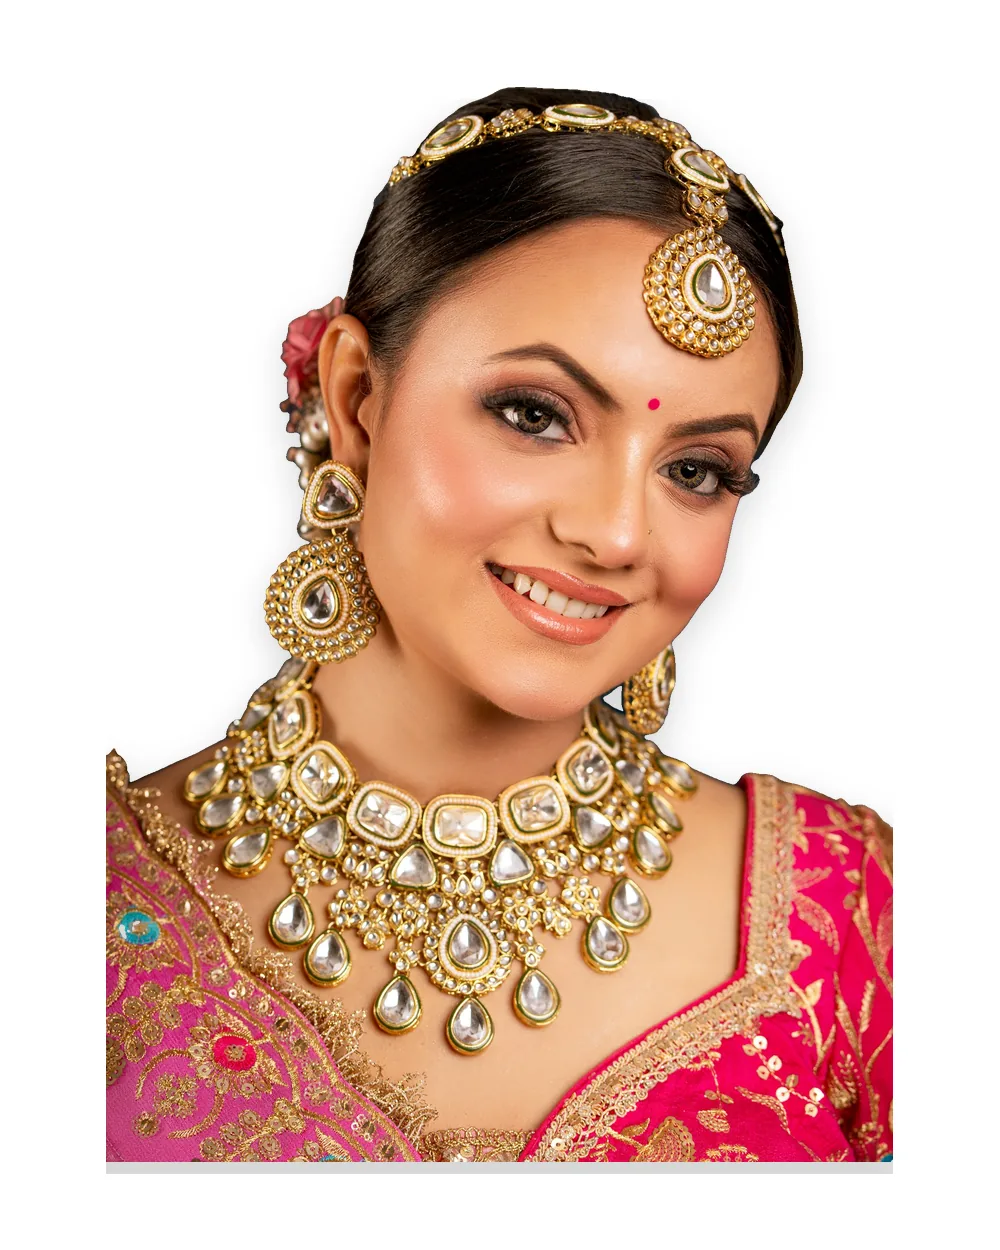
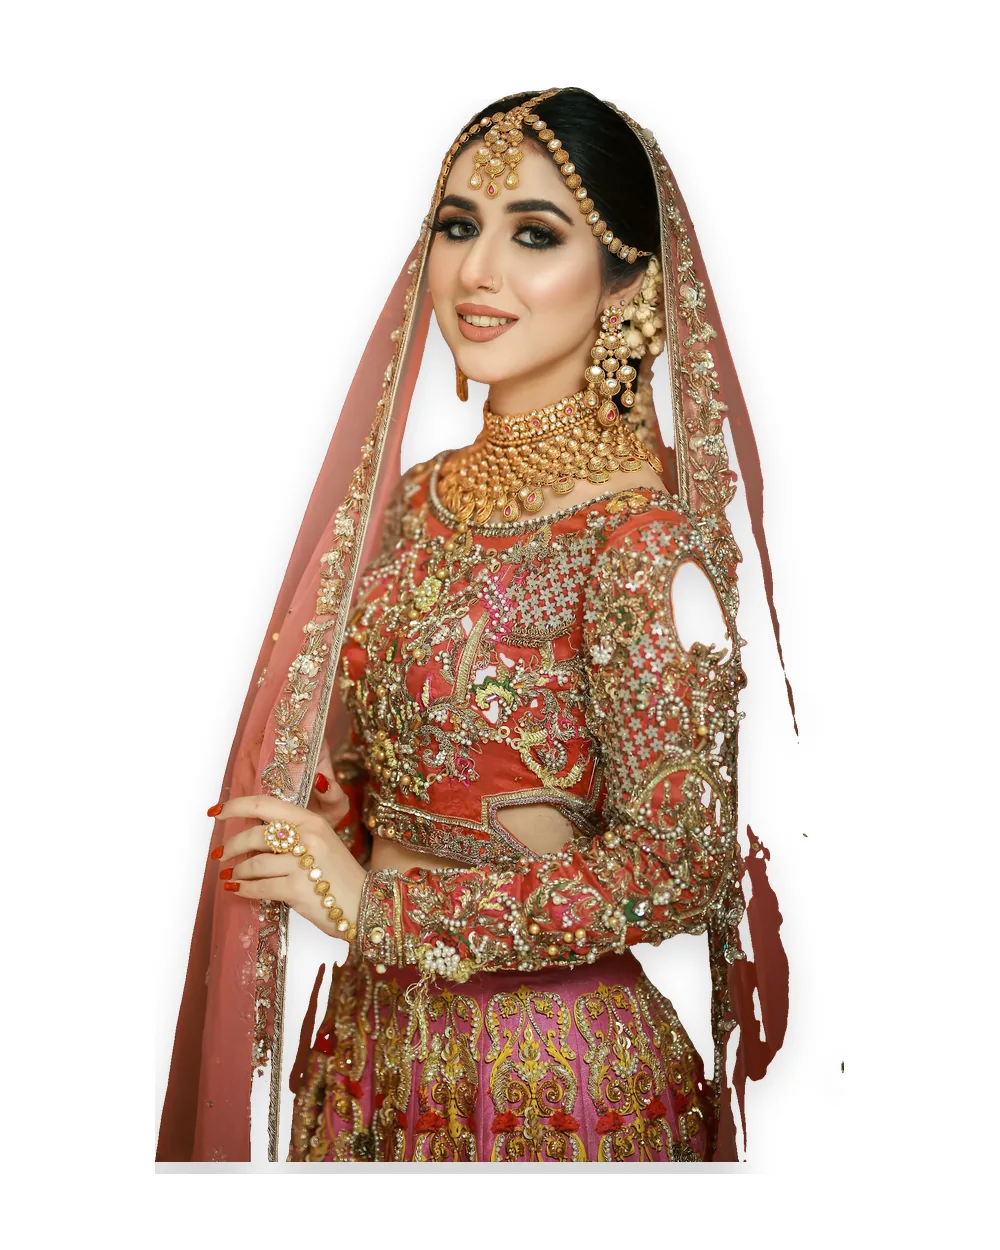
Light gold static theme, Pakistani bridal photos on white

diff --git a/wp-content/themes/ayatcollections/style.css b/wp-content/themes/ayatcollections/style.css
@@ -967,3 +967,62 @@ h1, h2, h3, h4 { font-family: var(--font-serif); font-weight: 400; color: var(--
 .newsletter__media::before { background: linear-gradient(90deg, var(--black) 0%, rgba(17,17,17,0) 25%); }
 .woocommerce ul.products li.product a img, .woocommerce div.product div.images img { background: #fff; }
 @media (max-width: 760px) { .newsletter__media { position: relative; width: 100%; aspect-ratio: 1.3; } .newsletter__media::before { background: none; } .royal__media::before { background: none; } }
+
+/* =====================================================================
+   Light gold theme: no dark areas; two-tone (double-shaded) gold
+   gradients where black was used; static homepage (no motion).
+   ===================================================================== */
+:root {
+	--cream: #fbf5ea;
+	--cream-2: #f6ebd6;
+	--gold-grad: linear-gradient(135deg, #f7ead0 0%, #ecd5a6 55%, #e2c58c 100%);
+	--gold-grad-soft: linear-gradient(135deg, #fdf7ec 0%, #f3e3c3 100%);
+	--grey: #f6ebd6;
+	--ink-soft: #3a2c17;
+}
+body { background: var(--cream); color: var(--ink-soft); }
+h1, h2, h3, h4, .sec-title, .hero-split__title { color: #2e2210; }
+.site-header { background: #fffaf1; border-bottom-color: #ecdcbc; }
+.announcement { background: var(--gold-grad); color: #4a3512; }
+.hero-split, .band { background: var(--cream); }
+.band--grey, .split__text--grey, .tips__row, .trust { background: var(--cream-2); }
+.band--dark { background: var(--gold-grad); color: var(--ink-soft); }
+.band--dark .sec-title { color: #2e2210; }
+.split__text { background: #fffaf1; }
+.split__media, .split__media--dark { background: #fff; }
+
+/* Former black banners → double-shaded gold */
+.royal, .newsletter { background: var(--gold-grad); color: var(--ink-soft); }
+.royal__title { color: #2e2210; }
+.royal__media::before, .newsletter__media::before { content: none; }
+.royal__media, .newsletter__media { background: #fff; }
+.newsletter__form input { background: #fffaf1; border-color: #d9bf8c; color: var(--ink-soft); }
+
+/* Footer → double-shaded gold */
+.site-footer { background: var(--gold-grad); color: #4a3512; }
+.site-footer a { color: #3a2c17; }
+.site-footer a:hover { color: #8a6424; }
+.site-footer__title { color: #6b4c18; }
+.site-footer__bottom { border-top-color: rgba(107, 76, 24, .2); color: #6b4c18; }
+.site-footer__social a { color: #6b4c18; border-color: rgba(107, 76, 24, .45); }
+.site-footer__social a:hover { background: #fffaf1; color: #6b4c18; }
+
+/* Buttons: gold double shade instead of black */
+.btn-gold, .btn, .woocommerce a.button, .woocommerce button.button, .woocommerce input.button, .woocommerce a.button.alt, .woocommerce button.button.alt, .wp-element-button, .wc-block-components-button:not(.is-link), .ayat-search__btn {
+	background: linear-gradient(135deg, #d9b26c 0%, #b8893f 100%); border-color: #b8893f; color: #fff;
+}
+.btn-gold:hover, .btn:hover, .woocommerce a.button:hover, .woocommerce button.button:hover, .woocommerce a.button.alt:hover, .woocommerce button.button.alt:hover, .wp-element-button:hover, .ayat-search__btn:hover {
+	background: linear-gradient(135deg, #e6c48a 0%, #cc9e5a 100%); border-color: #cc9e5a; color: #fff;
+}
+.btn-line, .woocommerce ul.products li.product .button { border-color: #b8893f; color: #6b4c18; background: transparent; }
+.btn-line:hover, .woocommerce ul.products li.product .button:hover { background: var(--gold-grad); color: #3a2c17; border-color: #cc9e5a; }
+.badge--new, .chip.is-active { background: linear-gradient(135deg, #d9b26c, #b8893f); color: #fff; border-color: #b8893f; }
+.bag-count.is-empty { border-color: #e1cfa8; }
+.woocommerce-checkout #order_review, .product-assurance, .woocommerce-message, .woocommerce-info { background: var(--cream-2); }
+.contact { background-color: var(--cream-2); }
+.contact::before { background: rgba(251, 245, 234, .6); }
+
+/* Static homepage: one banner photo, no moving strip */
+.hero-show .hero-show__img { animation: none !important; opacity: 0; transform: none; }
+.hero-show .hero-show__img:first-of-type { opacity: 1; }
+.hero-show__shine, .marquee { display: none !important; }
